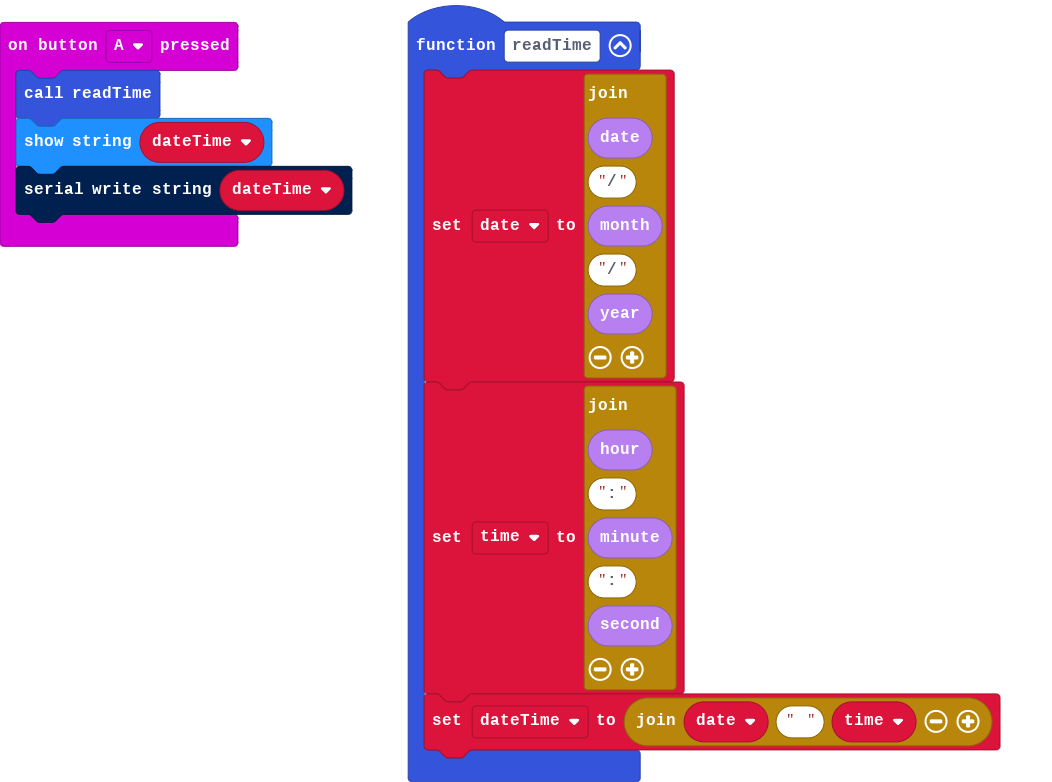
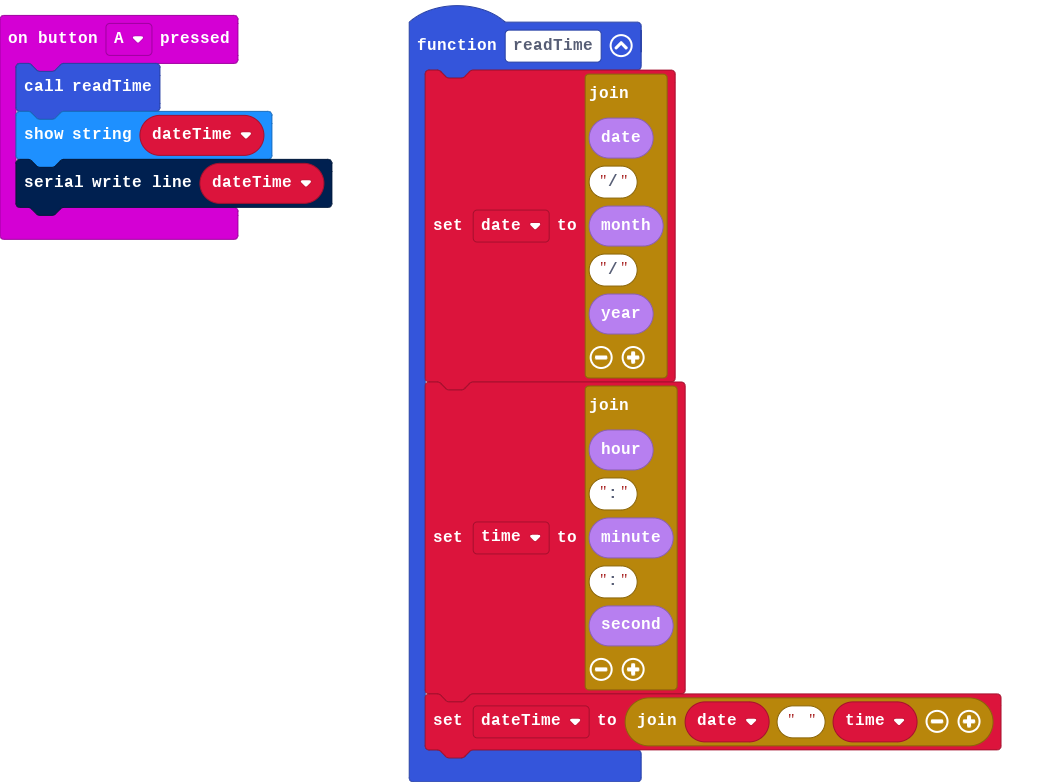
write line

diff --git a/main.ts b/main.ts
@@ -9,5 +9,5 @@ function readTime () {
 input.onButtonPressed(Button.A, function () {
     readTime()
     basic.showString(dateTime)
-    serial.writeString(dateTime)
+    serial.writeLine(dateTime)
 })
